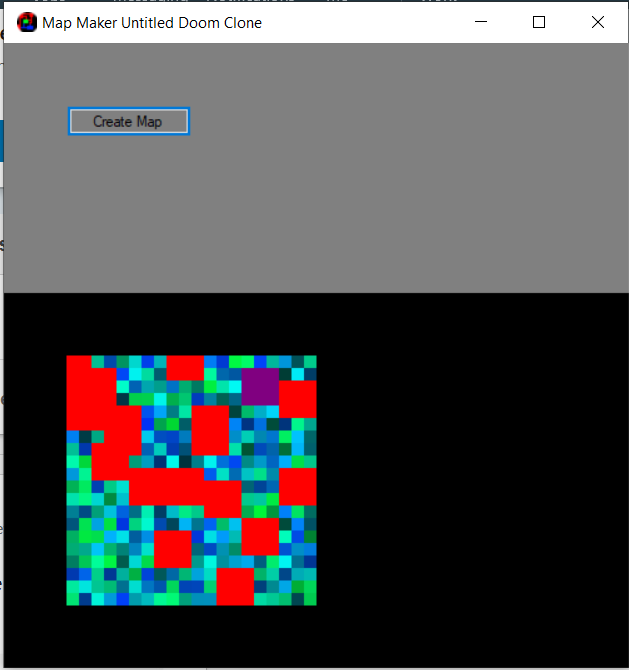
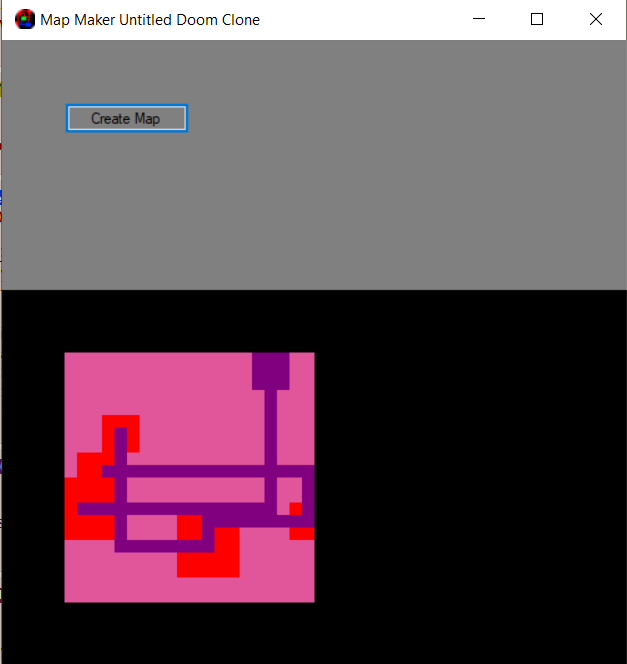
Update ReadMe To match Latest Branch (Gameplay)

diff --git a/README.md b/README.md
@@ -63,7 +63,7 @@ Below is the process used to draw a '3d' world.
 
 ## Latest Update
 
-30/06/2020 MapMaker Update
+07/07/2020 MapMaker Complete
 
 ![MapMakerImage](MapMaker.PNG)
 
